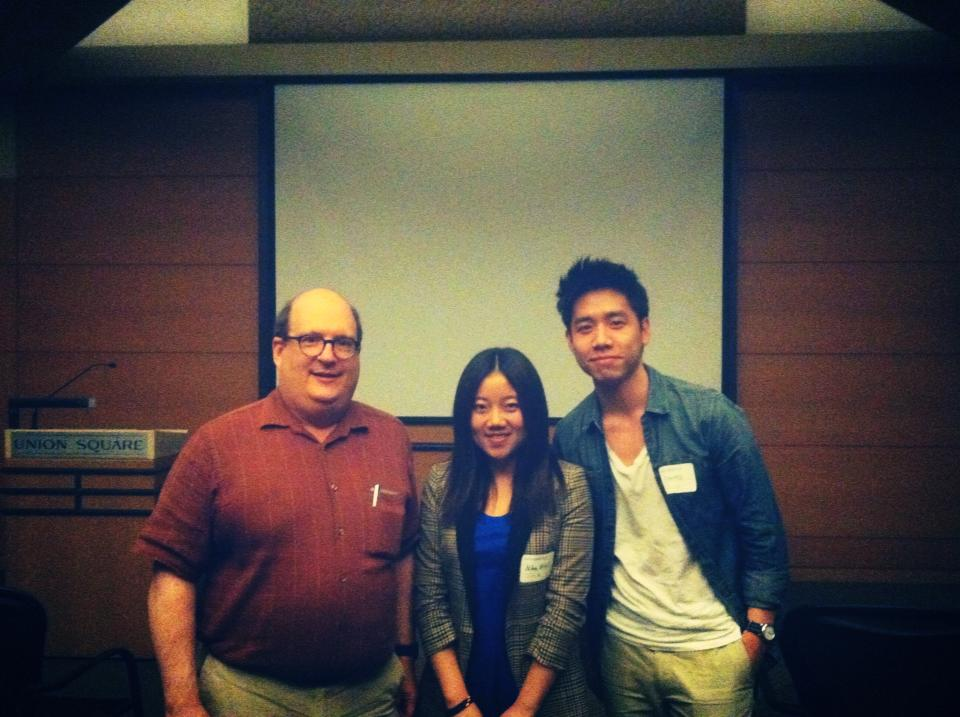
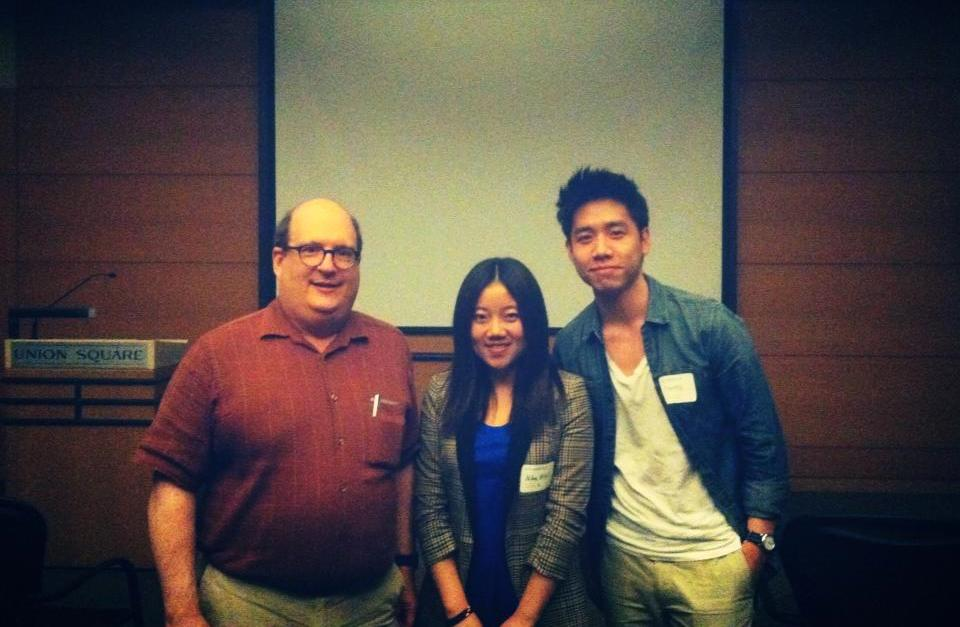
edit about img

diff --git a/index.html b/index.html
@@ -320,48 +320,15 @@
     
     <div class="row margin-40">
         <div class="span4">
-        	<h3>My passion and experience</h3>
-            <p>The past experience in cognitive, social and engineering psychology researches, inspired my passion of human behavior and strengthened my research skills (user research, experiment design, survey design, and data analysis etc). While the study in MHCID and the life in Seattle, deepen my love of UX and sharpen my design qualities and skills.
-            <br>
-            <p>I am accustommed to finding problems and trying to solve them, I love working on meaning projects, and taking and working with UXers, I appreicate UX experts's speaking and writing. I have rich volunteer experience as well, UX events hosted by IxDA-Seattle, and China Interaction Design Experience Week, and lucky enough to meet with my UX idols. I am the co-founder of Chinese UX Association in US, establishing our UX family and fight hard for UX Unicorn together.</p>
-            <img src="img/frogdesign.jpg" width="300" alt="frogdesign Founder">
+        	<h3>Passion, Experience</h3>
+            <p>The past experience in cognitive, social and engineering psychology researches, inspired my passion of human behavior and strengthened my research skills. While the study in MHCID and the life in Seattle, deepen my love of UX and sharpen my design qualities and skills.</p>
+            
+            <p>Design for people's better life and unpredictable future, help those in need and make contributions to the society, it is my passion and my experience, and my future.</p>
+            
+            <p>Volunteering in UX events hosted by <a href="http://ixdaseattle.org/">IxDA Seattle</a>, and <a href="http://ixdc.org/IxD2013/">China Interaction Design Experience Week</a>, made me lucky enough to meet with my UX idols. As the co-founder of <a href="https://www.facebook.com/groups/uxren/">Chinese UX Association in US</a>, establishing our UX family and fight hard for UX Unicorn together, become part of my life.</p>
+            <p>Thank God, I am a UXer!</p>
+            
         </div>
-        
-        <!--<div class="span4">
-        	<h3>My Skills</h3>
-            
-            <div class="progress-bar">
-                <div class="progress">
-                	<span class="field">Ideate/Research</span>
-                    <span class="field-value">100%</span>
-                    <div class="bar" style="width: 100%;"></div>
-                </div>
-            </div>
-            
-            <div class="progress-bar">
-                <div class="progress">
-                	<span class="field">User Experience</span>
-                    <span class="field-value">100%</span>
-                    <div class="bar" style="width: 100%;"></div>
-                </div>
-            </div>
-            
-            <div class="progress-bar">
-                <div class="progress">
-                	<span class="field">Design/Prototype</span>
-                    <span class="field-value">80%</span>
-                    <div class="bar" style="width: 80%;"></div>
-                </div>
-            </div>
-            
-            <div class="progress-bar">
-                <div class="progress">
-                	<span class="field">Development</span>
-                    <span class="field-value">50%</span>
-                    <div class="bar" style="width: 50%;"></div>
-                </div>
-            </div>    
-        </div>-->
 
         <div class="span4">
             <h3>Contact Me</h3>
@@ -370,11 +337,11 @@
             <p>Email me at <a href="mailto:weizhuxiaona@gmail.com?Subject=Hello">weizhuxiaona@gmail.com</a></p>
 
             <p><em>Know more about me and my passion of UX? Read my blogs at Medium!</em></p>
-            <br>
-
+        
             <p>"Design is rendering the intent, and Innovation is adding new values." -- Jared Spool</p>
             <p>"Follow your heart, and do what you love," -- Steve Jobs</p>
-            <img src="img/jared.jpg" width="300" alt="Jared Spool">
+
+            <img src="img/volunteer.jpg" width="300" alt="Voluntter in IxDA and IxDC">
 
         </div>
         <div class="span4">
